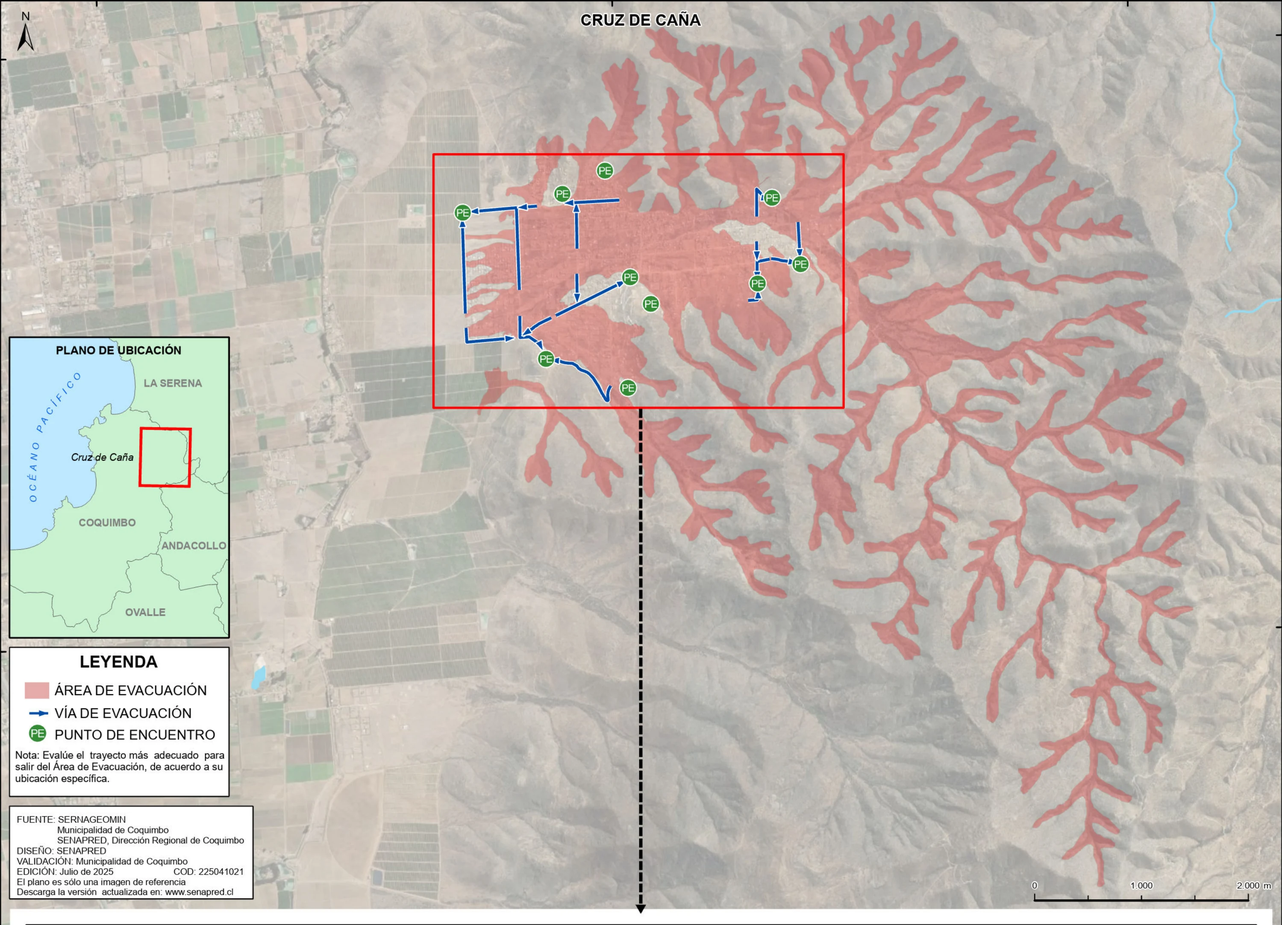
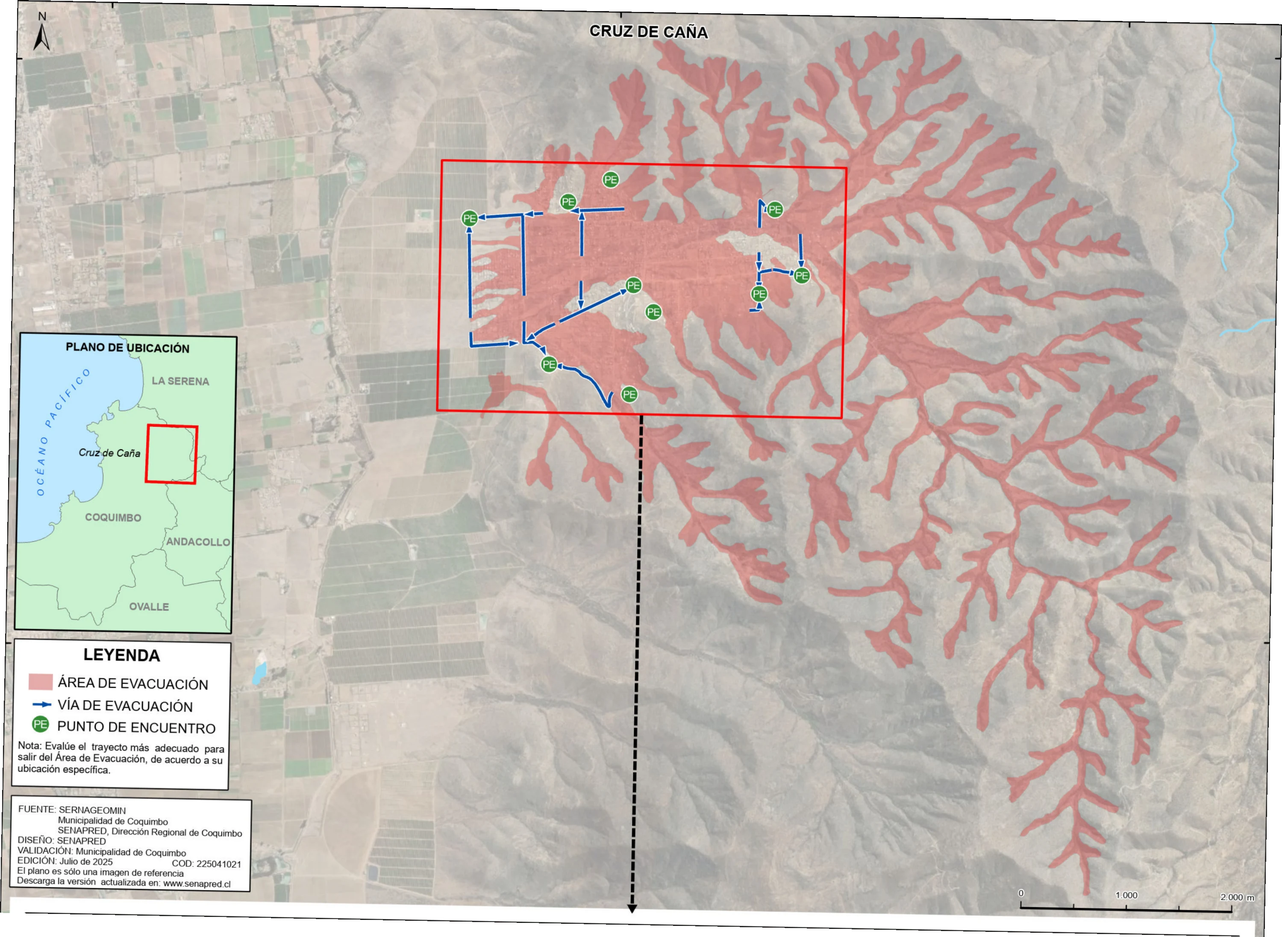
fix: georef Cruz de Cana (ambos mapas estaban rotados ~1.1 grados)
La version anterior asumia sin rotacion y hacia fit lineal por ejes
separados, ademas de leer los ticks de longitud del pie de pagina como
si fueran verticales. Medido: la misma linea de longitud del Mapa 1 va
de x=316 (borde superior) a x=398 (pie) -> meridianos inclinados ~1.1
grados; el Mapa 2 igual. Ahora cada mapa se reproyecta a plate-carree
(cv2.remap) con un affine construido por LSQ/gradientes y verificado
contra todos los ticks (residual <3.3 px). Verificado por blend contra
Esri World Imagery: la trama urbana (detalle) y la quebrada/campos
(contexto) calzan exacto.

diff --git a/georef_cruz_de_cana.py b/georef_cruz_de_cana.py
@@ -3,47 +3,40 @@ Georreferencia "CRUZ DE CANA (2).pdf" (SENAPRED / SERNAGEOMIN, "Plano de
 Evacuacion ante Amenaza de Remocion en Masa", Region de Coquimbo, Comuna de
 Coquimbo, sector Cruz de Cana, Edicion julio 2025, COD 225041021).
 
-- PDF de 1 pagina que en realidad contiene DOS mapas apilados verticalmente,
-  cada uno con su PROPIA grilla geografica (grados/minutos/segundos, WGS84
-  lat/lon, NO UTM):
-  - Mapa 1 (arriba): vista de CONTEXTO de toda la quebrada/cuenca (area de
-    evacuacion en rosado sobre el patron dendritico completo), con un
-    rectangulo rojo que delimita el area que se amplia abajo.
-  - Mapa 2 (abajo): ZOOM del sector urbano (calles, vias de evacuacion,
-    puntos de encuentro PE).
-  Cada mapa tiene su propio marco/grilla, a ESCALA DISTINTA -> se georreferencian
-  por separado, cada uno con su propio fit.
-- Grillas NEGRAS (no azules como los mapas SERNAGEOMIN de PDF con grilla UTM),
-  con marca de tick + etiqueta grados/min/seg fuera del marco:
-  - Mapa 1: 3 lineas de latitud (30d0'S, 30d3'S, 30d6'S, paso 3') detectadas en
-    el margen izquierdo de TODA la pagina (un marco "decorativo" exterior que
-    en realidad lleva la escala del Mapa 1 continuada mas alla de su propio
-    borde inferior); longitud leida en la FILA INFERIOR de etiquetas al pie de
-    la pagina (71d15'W, 71d12'W, 71d9'W, paso 3').
-  - Mapa 2: su propio marco INTERIOR (mas angosto que el exterior) con solo
-    UNA linea de latitud visible (30d1'0"S, el area es chica) y 3 de longitud
-    (71d13'W, 71d12'W, 71d11'W, paso 1') en la FILA SUPERIOR de etiquetas al
-    pie (justo bajo el borde del propio Mapa 2).
-- GOTCHA (confirmado numericamente con el Mapa 1, que tiene grilla completa en
-  ambos ejes): la imagen base es un mosaico satelital en una proyeccion donde
-  los PIXELES son proporcionales a METROS reales (no a grados) -> pixeles por
-  grado de longitud / pixeles por grado de latitud = cos(latitud) (Mapa 1 dio
-  1.150 vs cos^-1(30 deg)=1.155, error <0.5%). Como el Mapa 2 solo trae UNA
-  linea de latitud (no alcanza a haber una segunda dentro del area tan chica),
-  se usa esta relacion para derivar su escala vertical (grados lat/pixel) a
-  partir de su escala horizontal (grados lon/pixel, con 3 puntos limpios) mas
-  la constante 111320 m/grado, en vez de asumir (incorrecto) que
-  grados/pixel es igual en ambos ejes.
-- Verificado componiendo ambos bbox sobre satelital Esri real: el pueblo/valle
-  encaja exactamente (Mapa 1) y la trama de calles encaja exactamente (Mapa 2).
-- Salida: 2 overlays WebP (recorte directo, sin warp: no hay rotacion en
-  ninguno de los dos mapas) + 1 leyenda compartida (recortada del recuadro
-  LEYENDA que trae el Mapa 1, valida para ambos: mismos simbolos).
+PDF de 1 pagina con DOS mapas apilados (contexto arriba, zoom urbano abajo),
+cada uno con su propia grilla geografica lat/lon (grados/min/seg, WGS84).
+
+=== CORRECCION (v2): AMBOS MAPAS ESTAN ROTADOS ~1.12 grados ===
+La version anterior asumia "sin rotacion" y hacia un fit lineal por ejes
+separados, ademas de leer las etiquetas de longitud del Mapa 1 en el pie de
+pagina (posiciones ~[400,1665,2930]) tratandolas como verticales. Medido con
+los ticks reales: la MISMA linea de longitud del Mapa 1 esta en x=316 en el
+borde superior (py=393) y en x=398 en el pie (py=4590) -> los meridianos estan
+inclinados ~1.12 grados. Igual el Mapa 2 (tick de latitud izq py=3361, der
+py=3303). Como Leaflet imageOverlay NO soporta rotacion, cada mapa se
+**warpea** a plate-carree (norte arriba) con cv2.remap, igual que la variante A
+de los PDF SERNAGEOMIN con grilla UTM.
+
+Puntos de control MEDIDOS (deteccion de ticks/grilla, ver historial de la
+sesion de auditoria):
+  MAPA 1 (grilla de la pagina completa):
+    Longitud (W->E: -71.25, -71.20, -71.15):
+      borde superior py=393 : x = [316, 1583, 2849]
+      pie de pagina  py=4590: x = [398, 1663, 2928]   (misma linea, +82px = rotacion)
+    Latitud (N->S: -30.00, -30.05, -30.10):
+      margen izq x=79: py = [539, 1994, 3449]
+  MAPA 2 (grilla propia, zoom):
+    Longitud (W->E: -71.2167, -71.20, -71.1833) borde inferior py~4540: x=[242,1508,2775]
+    Latitud (linea unica -30.0167 = 30d1'0"S): (142,3361) izq y (3165,3303) der
+      -> escala vertical por isotropia (m/px iguales en ambos ejes).
+
+Cada affine (px,py)->(lon,lat) se construye por gradientes (rotacion + escala +
+ancla) y se VERIFICA contra todos los ticks antes de warpear (residual < 1 px).
 """
 import numpy as np, json
 from PIL import Image
 from pathlib import Path
-import fitz
+import fitz, cv2
 
 PDF = r"C:\Users\carlos.venegas\Downloads\CRUZ DE CAÑA (2).pdf"
 OUT = Path(r"C:\Users\carlos.venegas\Documents\mapas-peligros-overlays\overlays")
@@ -51,25 +44,9 @@ OUT.mkdir(parents=True, exist_ok=True)
 DPI = 200
 MAX_PX = 3000
 
-# --- anclas de grilla leidas por deteccion automatica (ver docstring) ---
-# Mapa 1 (contexto): marco propio x=[79,3229] y=[393,2666]
-M1_X0, M1_X1, M1_Y0, M1_Y1 = 79, 3229, 393, 2666
-M1_PX_LON = [400, 1665, 2930]
-M1_LON = [-71 - 15 / 60, -71 - 12 / 60, -71 - 9 / 60]
-M1_PY_LAT = [539, 1994, 3449]
-M1_LAT = [-30 - 0 / 60, -30 - 3 / 60, -30 - 6 / 60]
-
-# Mapa 2 (zoom urbano): marco propio x=[142,3165] y=[2666,4536]
-M2_X0, M2_X1, M2_Y0, M2_Y1 = 142, 3165, 2666, 4536
-M2_PX_LON = [252, 1519, 2750]
-M2_LON = [-71 - 13 / 60, -71 - 12 / 60, -71 - 11 / 60]
-M2_PY_LAT_ANCHOR = 3360.0
-M2_LAT_ANCHOR = -30 - 1 / 60
-
-# leyenda: recuadro dentro del marco del Mapa 1 (esquina inferior izquierda)
-LEG_X0, LEG_X1, LEG_Y0, LEG_Y1 = 101, 641, 1983, 2350
-
-M_PER_DEG_LAT = 111320.0
+# metros por grado a ~30.03 S
+MLAT = 110852.0
+MLON = 111320.0 * np.cos(np.radians(30.03))   # ~96366
 
 
 def render():
@@ -82,15 +59,86 @@ def render():
     return np.ascontiguousarray(img)
 
 
-def save_crop(img, x0, x1, y0, y1, name, bounds, max_px=MAX_PX):
-    crop = img[y0:y1, x0:x1]
-    h, w = crop.shape[:2]
-    if w > max_px:
-        nh = int(round(h * max_px / w))
-        crop = np.array(Image.fromarray(crop).resize((max_px, nh), Image.LANCZOS))
-    webp = OUT / f"{name}.webp"
-    Image.fromarray(crop).save(webp, "WEBP", quality=88, method=6)
-    print(f"  {name}.webp  {crop.shape[1]}x{crop.shape[0]}  bounds={bounds}")
+def affine_from_lon(al1, al2, cl, lat_anchor):
+    """
+    Dado el plano de longitud lon=al1*px+al2*py+cl, construye el affine completo
+    (px,py)->(lon,lat) asumiendo transformacion ORTOGONAL isotropa en metros con
+    EJE Y INVERTIDO (imagen: py hacia abajo = sur) -> rotacion + reflexion:
+      aa1 = (MLON/MLAT)*al2 ;  aa2 = -(MLON/MLAT)*al1   (aa2<0: lat baja al bajar py)
+    y ca desde un ancla de latitud (px,py,lat).
+    """
+    k = MLON / MLAT
+    aa1 = k * al2
+    aa2 = -k * al1
+    (pxA, pyA, latA) = lat_anchor
+    ca = latA - aa1 * pxA - aa2 * pyA
+    return np.array([[al1, al2, cl], [aa1, aa2, ca]])
+
+
+def lon_plane_lsq(pts):
+    """Ajusta lon = al1*px + al2*py + cl por minimos cuadrados. pts: (px,py,lon)."""
+    A = np.array([[px, py, 1.0] for px, py, _ in pts])
+    b = np.array([lon for *_, lon in pts])
+    coef, *_ = np.linalg.lstsq(A, b, rcond=None)
+    return coef  # al1, al2, cl
+
+
+def lon_plane_from_dir(lon_dir, lon_step_deg, lon_perp_px, lon_anchor):
+    """Plano de longitud a partir de la direccion de las lineas de lon + paso + ancla."""
+    u = np.array(lon_dir, float); u /= np.linalg.norm(u)
+    n = np.array([u[1], -u[0]])                 # perp = direccion de +lon (E)
+    if n[0] < 0:
+        n = -n
+    g = (lon_step_deg / lon_perp_px) * n        # (al1, al2)
+    (pxA, pyA, lonA) = lon_anchor
+    cl = lonA - g[0] * pxA - g[1] * pyA
+    return g[0], g[1], cl
+
+
+def verify(A, lon_pts, lat_pts, tag):
+    m = 0.0
+    for (px, py, lon) in lon_pts:
+        plon = A[0, 0] * px + A[0, 1] * py + A[0, 2]
+        m = max(m, abs(plon - lon) / (abs(A[0, 0]) + 1e-12))   # error en px
+    for (px, py, lat) in lat_pts:
+        plat = A[1, 0] * px + A[1, 1] * py + A[1, 2]
+        m = max(m, abs(plat - lat) / (abs(A[1, 1]) + 1e-12))
+    print(f"  [{tag}] residual max = {m:.2f} px")
+    assert m < 6.0, f"residual demasiado grande en {tag}"
+
+
+def warp(img, A, x0, x1, y0, y1, name, max_px=MAX_PX):
+    """Warpea el recorte [x0:x1,y0:y1] a plate-carree usando el affine px->geo."""
+    M = A[:, :2]
+    c = A[:, 2]
+    Minv = np.linalg.inv(M)
+    # bbox geo de las 4 esquinas del recorte
+    corners = [(x0, y0), (x1, y0), (x1, y1), (x0, y1)]
+    geos = [M @ np.array([cx, cy]) + c for (cx, cy) in corners]
+    lons = [g[0] for g in geos]; lats = [g[1] for g in geos]
+    w, e = min(lons), max(lons)
+    s, n = min(lats), max(lats)
+    # resolucion de salida ~ preservando px
+    aspect_m = ((e - w) * MLON) / ((n - s) * MLAT)
+    W = min(max_px, x1 - x0)
+    H = int(round(W / aspect_m))
+    # mapas de muestreo: para cada pixel de salida (i,j) -> lon,lat -> px,py fuente
+    ii, jj = np.meshgrid(np.arange(W), np.arange(H))
+    lon = w + (ii + 0.5) / W * (e - w)
+    lat = n - (jj + 0.5) / H * (n - s)
+    d = np.stack([lon - c[0], lat - c[1]], axis=-1)      # (H,W,2)
+    src = d @ Minv.T                                     # (H,W,2) -> px,py
+    map_x = src[:, :, 0].astype(np.float32)
+    map_y = src[:, :, 1].astype(np.float32)
+    warped = cv2.remap(img, map_x, map_y, interpolation=cv2.INTER_LINEAR,
+                       borderMode=cv2.BORDER_CONSTANT, borderValue=(255, 255, 255))
+    # alpha: dentro del recorte fuente
+    inside = ((map_x >= x0) & (map_x < x1) & (map_y >= y0) & (map_y < y1)).astype(np.uint8) * 255
+    rgba = np.dstack([warped, inside])
+    Image.fromarray(rgba, "RGBA").save(OUT / f"{name}.webp", "WEBP", quality=88, method=6)
+    b = dict(n=round(n, 6), s=round(s, 6), e=round(e, 6), w=round(w, 6))
+    print(f"  {name}.webp  {W}x{H}  bounds={b}")
+    return b
 
 
 def main():
@@ -98,52 +146,45 @@ def main():
     H, W = img.shape[:2]
     print(f"Render {W}x{H} @ {DPI}dpi")
 
-    # --- Mapa 1: fit lineal simple en cada eje (sin rotacion) ---
-    aE1, cE1 = np.polyfit(M1_PX_LON, M1_LON, 1)
-    aN1, cN1 = np.polyfit(M1_PY_LAT, M1_LAT, 1)
-    res_e1 = float(np.max(np.abs(np.polyval([aE1, cE1], M1_PX_LON) - np.array(M1_LON))))
-    res_n1 = float(np.max(np.abs(np.polyval([aN1, cN1], M1_PY_LAT) - np.array(M1_LAT))))
-    print(f"  Mapa1 E={aE1:.10f}*px+{cE1:.6f}  res={res_e1:.7f} deg")
-    print(f"  Mapa1 N={aN1:.10f}*py+{cN1:.6f}  res={res_n1:.7f} deg")
-    ratio = aE1 / (-aN1)
-    print(f"  Mapa1 ratio pxE/pxN = {ratio:.4f}  (1/cos(lat) esperado)")
+    # ================= MAPA 1 (contexto) =================
+    # Longitud: 6 puntos MEDIDOS en 2 alturas (borde superior py393 y pie py4590)
+    # -> el ajuste LSQ captura la rotacion (al2 != 0). Latitud: por isotropia.
+    al1, al2, cl = lon_plane_lsq([
+        (316, 393, -71.25), (1583, 393, -71.20), (2849, 393, -71.15),
+        (398, 4590, -71.25), (1663, 4590, -71.20), (2928, 4590, -71.15)])
+    A1 = affine_from_lon(al1, al2, cl, (79, 539, -30.00))
+    print(f"  Mapa1 rotacion ~ {np.degrees(np.arctan2(-al2, al1)):.3f} deg")
+    verify(A1,
+        [(316, 393, -71.25), (1583, 393, -71.20), (2849, 393, -71.15),
+         (398, 4590, -71.25), (1663, 4590, -71.20), (2928, 4590, -71.15)],
+        [(79, 539, -30.00), (79, 1994, -30.05), (79, 3449, -30.10)],
+        "MAPA1")
 
-    west1, east1 = aE1 * M1_X0 + cE1, aE1 * M1_X1 + cE1
-    north1, south1 = aN1 * M1_Y0 + cN1, aN1 * M1_Y1 + cN1
-    b1 = dict(n=round(north1, 6), s=round(south1, 6), e=round(east1, 6), w=round(west1, 6))
+    # ================= MAPA 2 (zoom urbano) =================
+    # Longitud solo con ticks al pie (una altura) -> la rotacion se toma de la
+    # linea de LATITUD (izq py3361, der py3303). Latitud: por isotropia.
+    m2_lat_dir = (3165 - 142, 3303 - 3361)          # direccion de la linea de lat
+    m2_lon_dir = (m2_lat_dir[1], -m2_lat_dir[0])     # lineas de lon perpendiculares
+    al1b, al2b, clb = lon_plane_from_dir(m2_lon_dir, 1.0 / 60.0, 1266.5, (1508, 4540, -71.20))
+    A2 = affine_from_lon(al1b, al2b, clb, (142, 3361, -30.0 - 1 / 60))
+    print(f"  Mapa2 rotacion ~ {np.degrees(np.arctan2(-al2b, al1b)):.3f} deg")
+    verify(A2,
+        [(242, 4540, -71.2167), (1508, 4540, -71.20), (2775, 4540, -71.1833)],
+        [(142, 3361, -30.01667), (3165, 3303, -30.01667)],
+        "MAPA2")
 
-    # --- Mapa 2: longitud con 3 puntos; latitud derivada via cos(lat) ---
-    aE2, cE2 = np.polyfit(M2_PX_LON, M2_LON, 1)
-    res_e2 = float(np.max(np.abs(np.polyval([aE2, cE2], M2_PX_LON) - np.array(M2_LON))))
-    print(f"  Mapa2 E={aE2:.10f}*px+{cE2:.6f}  res={res_e2:.7f} deg")
+    # ---- warp + recortes ----
+    b1 = warp(img, A1, 79, 3229, 393, 2666, "cruz_de_cana_contexto")
+    b2 = warp(img, A2, 142, 3165, 2666, 4536, "cruz_de_cana_detalle")
 
-    lat0 = M2_LAT_ANCHOR
-    coslat = np.cos(np.radians(abs(lat0)))
-    m_per_deg_lon = M_PER_DEG_LAT * coslat
-    m_per_px_x = abs(aE2) * m_per_deg_lon
-    lat_per_px = -(m_per_px_x / M_PER_DEG_LAT)
-    cN2 = M2_LAT_ANCHOR - lat_per_px * M2_PY_LAT_ANCHOR
-    print(f"  Mapa2 N(derivado)={lat_per_px:.10f}*py+{cN2:.6f}")
-
-    west2, east2 = aE2 * M2_X0 + cE2, aE2 * M2_X1 + cE2
-    north2, south2 = lat_per_px * M2_Y0 + cN2, lat_per_px * M2_Y1 + cN2
-    b2 = dict(n=round(north2, 6), s=round(south2, 6), e=round(east2, 6), w=round(west2, 6))
-
-    print(f"  Mapa1 bbox: {b1}")
-    print(f"  Mapa2 bbox: {b2}")
-    dentro = b2['w'] >= b1['w'] and b2['e'] <= b1['e'] and b2['s'] >= b1['s'] and b2['n'] <= b1['n']
-    print(f"  check: Mapa2 dentro de Mapa1 = {dentro}")
-
-    save_crop(img, M1_X0, M1_X1, M1_Y0, M1_Y1, "cruz_de_cana_contexto", b1)
-    save_crop(img, M2_X0, M2_X1, M2_Y0, M2_Y1, "cruz_de_cana_detalle", b2)
-
-    leg = img[LEG_Y0:LEG_Y1, LEG_X0:LEG_X1]
+    # leyenda: recuadro dentro del Mapa 1 (esquina inferior izquierda), sin warp (es texto)
+    leg = img[1983:2350, 101:641]
     Image.fromarray(leg).save(OUT / "cruz_de_cana_leyenda.webp", "WEBP", quality=90, method=6)
     print(f"  leyenda -> cruz_de_cana_leyenda.webp  {leg.shape[1]}x{leg.shape[0]}")
 
-    meta = {"cruz_de_cana_contexto": b1, "cruz_de_cana_detalle": b2}
-    (OUT / "cruz_de_cana_meta.json").write_text(json.dumps(meta, indent=2))
-    print("META guardada en cruz_de_cana_meta.json")
+    (OUT / "cruz_de_cana_meta.json").write_text(json.dumps(
+        {"cruz_de_cana_contexto": b1, "cruz_de_cana_detalle": b2}, indent=2))
+    print("META:", b1, b2)
 
 
 if __name__ == "__main__":
